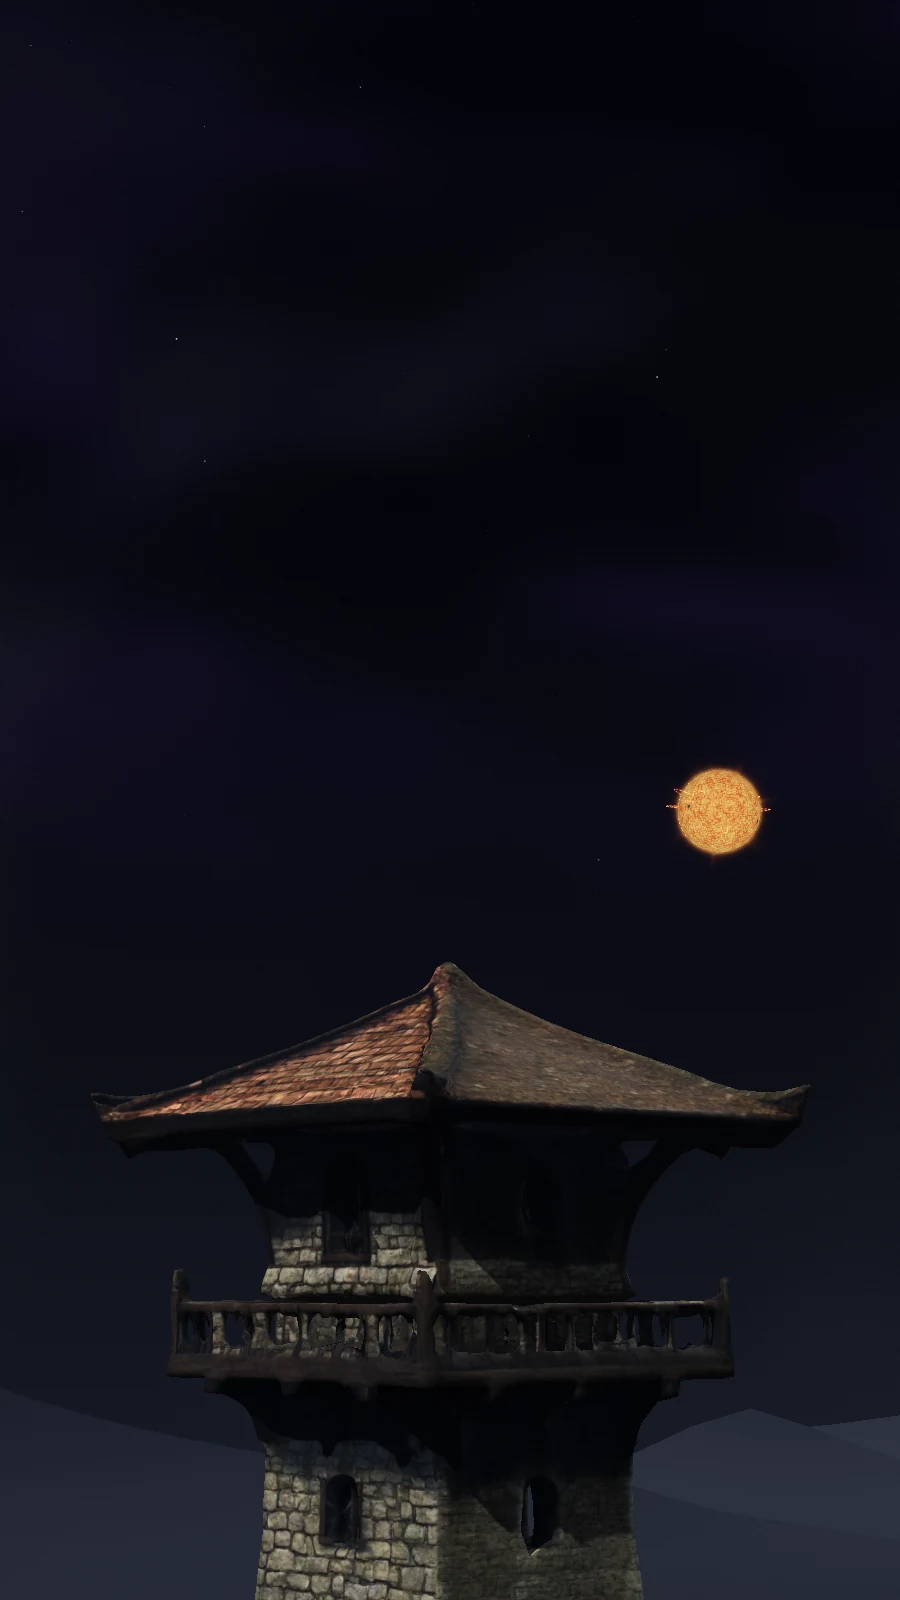
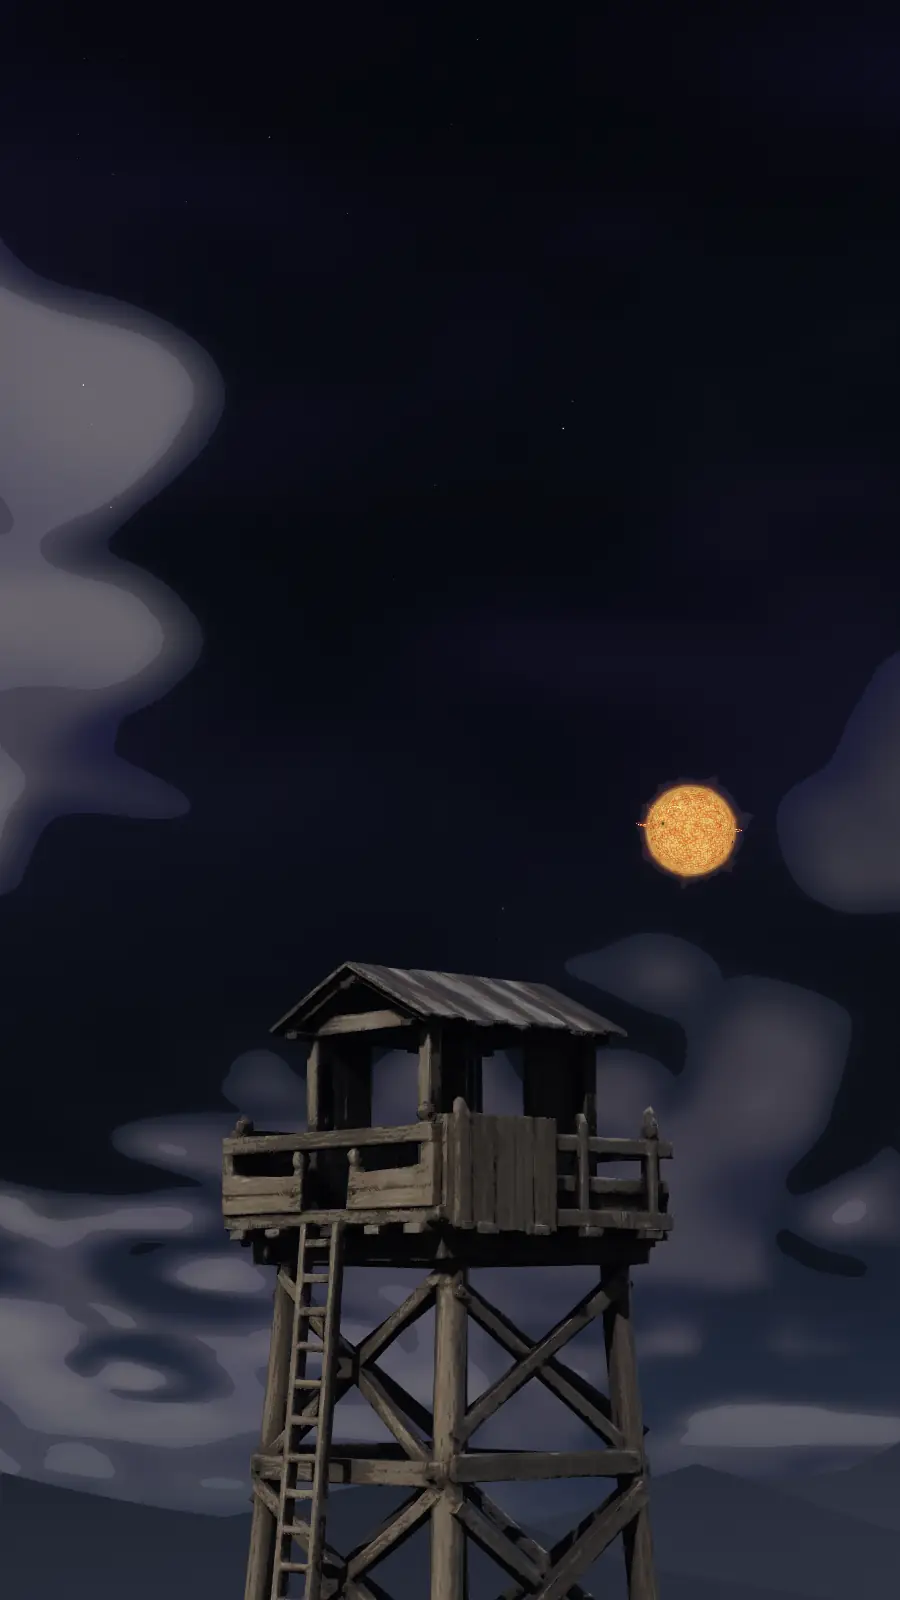
Refresh posters and share card for the timber lookout scene
Owner-accepted captures of The watch (canvas only, no interface text)
replace both static posters: landscape 1600x900 (30,498 B, was 47,500) and
portrait 900x1600 (23,968 B, was 40,254). They show the timber lookout,
the moonlit cloud-bank sky and the slate-ground grade, so the first paint,
reduced-motion/data and no-WebGL paths match the live scene.

og.png is regenerated from tools/og-card.html over the new landscape
poster: opaque 1200x630, 224-colour palette at 55% dither, 274,861 B
(PSNR 42.4 dB vs the raw capture); the recipe in og-card.html is updated to
match. og:image:alt / twitter:image:alt now describe a timber lookout tower
under a moonlit sky. Re-scrape with LinkedIn Post Inspector after release.

diff --git a/tools/og-card.html b/tools/og-card.html
@@ -7,8 +7,8 @@
       --force-device-scale-factor=1 --window-size=1200,630 --virtual-time-budget=3000
       --user-data-dir=<scratch>\edge-profile --screenshot=<scratch>\og-raw.png
       file:///<repo>/tools/og-card.html
-    magick <scratch>\og-raw.png -alpha off -kmeans 256 -unique-colors <scratch>\og-pal.png
-    magick <scratch>\og-raw.png -alpha off -dither FloydSteinberg -define dither:diffusion-amount=80%
+    magick <scratch>\og-raw.png -alpha off -kmeans 224 -unique-colors <scratch>\og-pal.png
+    magick <scratch>\og-raw.png -alpha off -dither FloydSteinberg -define dither:diffusion-amount=55%
       -remap <scratch>\og-pal.png -strip -define png:compression-level=9 PNG8:og.png
   Keep og.png opaque, exactly 1200x630 and under 300 KB, then re-scrape it with LinkedIn Post Inspector.
 -->

diff --git a/index.html b/index.html
@@ -26,7 +26,7 @@
 
     <meta property="og:image:height" content="630" />
 
-    <meta property="og:image:alt" content="Alex Nava — a stone watchtower under a night sky" />
+    <meta property="og:image:alt" content="Alex Nava — a timber lookout tower under a moonlit sky" />
 
     <meta name="twitter:card" content="summary_large_image" />
 
@@ -36,7 +36,7 @@
 
     <meta name="twitter:image" content="https://alexnava.me/og.png" />
 
-    <meta name="twitter:image:alt" content="Alex Nava — a stone watchtower under a night sky" />
+    <meta name="twitter:image:alt" content="Alex Nava — a timber lookout tower under a moonlit sky" />
 
     <meta name="theme-color" content="#0b1020" />
 
